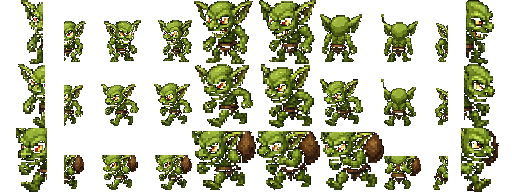
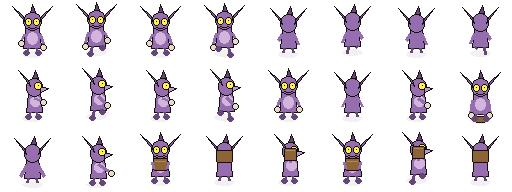
US-013 T005: gremlin art distinct from goblin.
- monsters/gremlin.png: new purple wiry thief sheet 512x192 / 64 cells
  (idle/walk/pick/carry; no spear; not goblin.png)
- monsters/gremlin_poof.png: 4-frame death poof (not DestroySmoke)
- sprites/gremlin_spawn_button(+_pressed).png: gremlin face + item
- gui/dm/skill_tree gremlin-row icons refreshed (not goblin)
See monsters/GREMLIN_SHEET.md for frame map. Do not merge.

diff --git a/monsters/GREMLIN_SHEET.md b/monsters/GREMLIN_SHEET.md
@@ -1,0 +1,16 @@
+# monsters/gremlin.png layout (US-013 T005)
+
+512×192 RGBA, **64×64 cells**, hframes=8 vframes=3. Transparent bg.
+Distinct purple wiry thief — **not** goblin olive / spear / `goblin.png`.
+
+| Row | Cols 0–3 | Cols 4–7 |
+|-----|----------|----------|
+| 0 | walk South f0–f3 | walk North f0–f3 |
+| 1 | walk East f0–f3 | idle S, idle N, idle E, pick South |
+| 2 | pick N, pick E, carry idle S/N/E, carry walk S, carry walk E, carry walk N |
+
+West = flip East frames in code.
+Carry uses a **generic brown block** offset — do not bake item types.
+Death VFX: `monsters/gremlin_poof.png` (256×64, four 64×64 frames).
+HUD: `sprites/gremlin_spawn_button.png` (+ `_pressed`).
+Skill icons refreshed: `gui/dm/skill_tree/row_gremlins.png`, `icon_minions.png`, `icon_blind_monkeys.png`, `icon_crib_death.png`.
